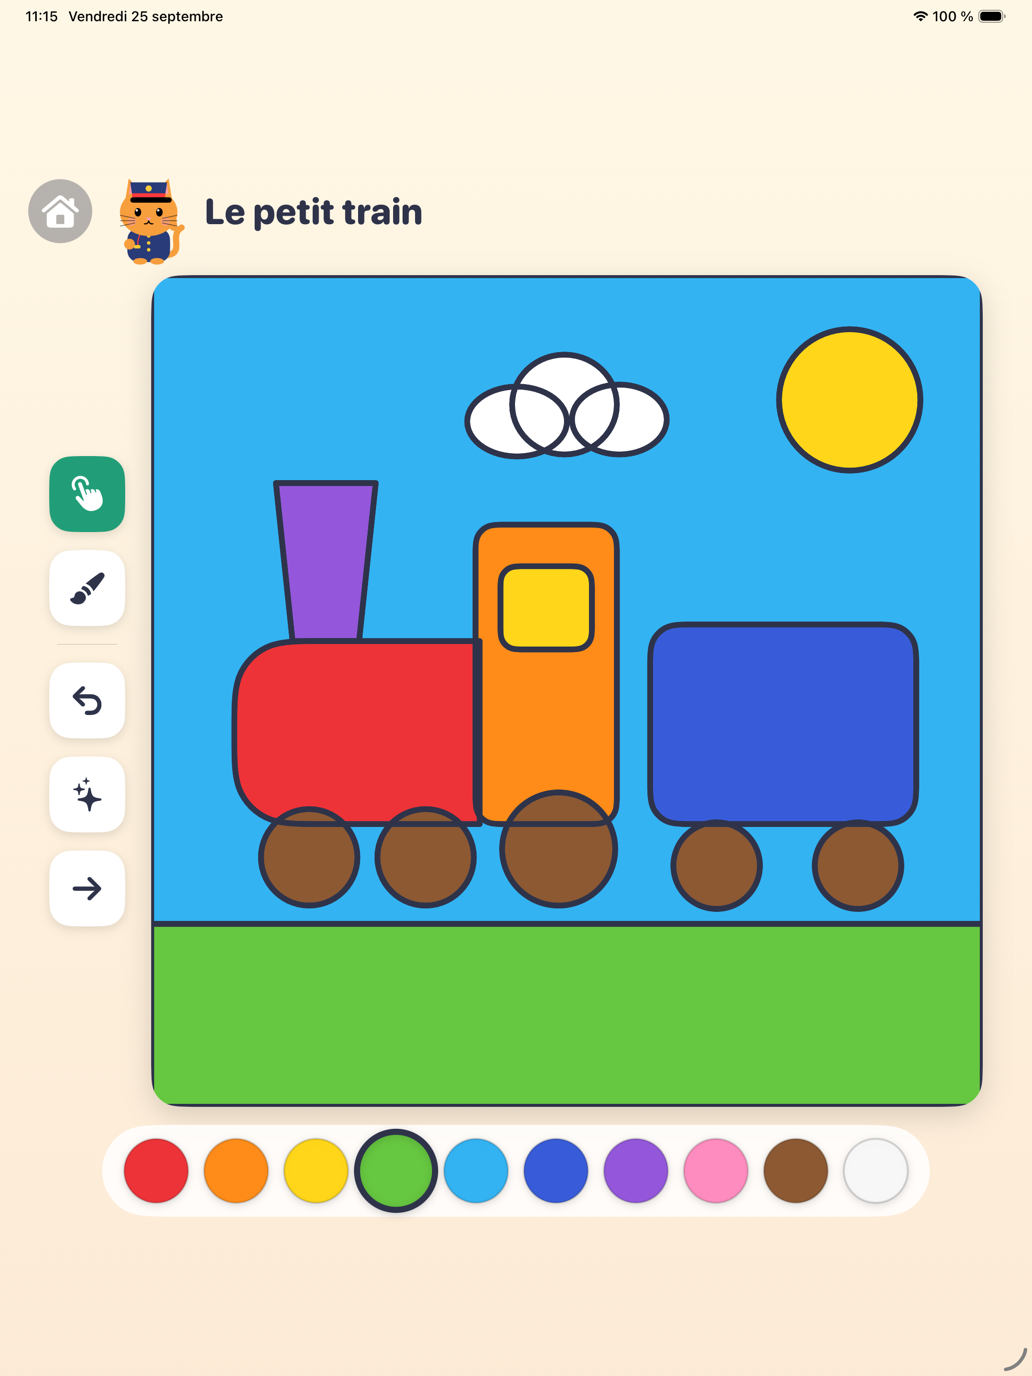
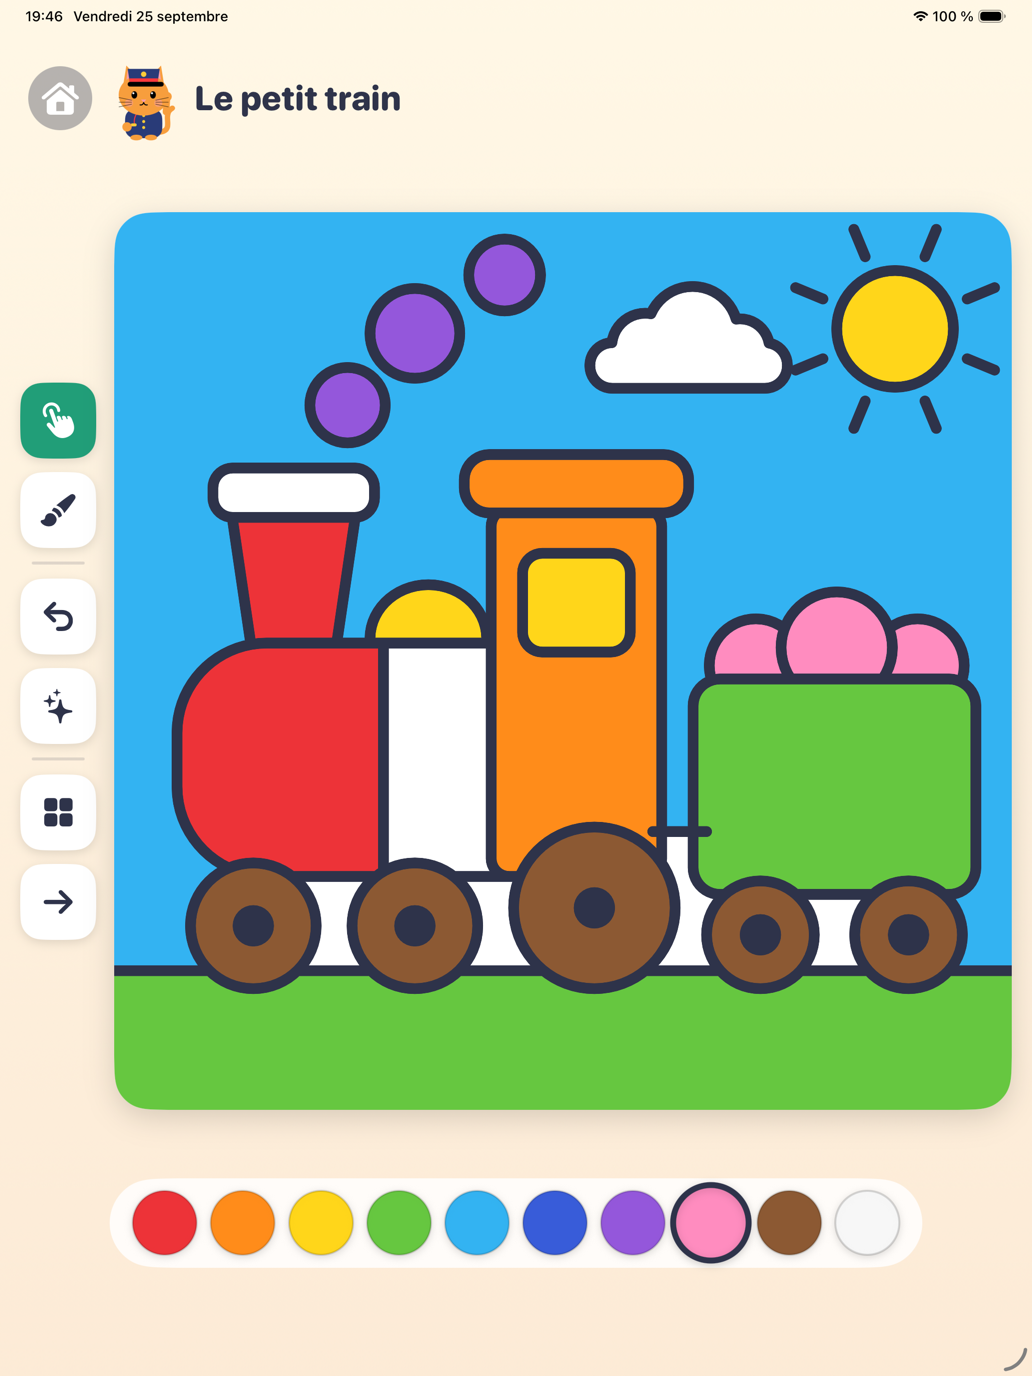
docs(eveil): l'app sur l'iPad réel et le second tour — captures, mode d'emploi, état
- README : l'app essayée sur l'iPad de l'utilisateur ; le second tour né de
  ses retours (micro « essai par un adulte » et test du micro, voyage de
  monde en monde, 45 mots dessinés, bestioles et bruitages calculés,
  coloriage à zones sur 15 pages) ; commandes pour un iPad réel (l'équipe de
  signature reste hors du dépôt public)
- captures refaites : la mouche et ses mouches, le fourgon accroché, le
  fourgon resté en gare dans la forêt, le coloriage à zones, l'espace des
  grands, le test du micro
- CLAUDE.md : état, pièges (boucles d'animation SwiftUI), reste à faire

diff --git a/eveil/README.md b/eveil/README.md
@@ -9,7 +9,7 @@ Tout est calculé **sur l'appareil**, sans modèle opaque, avec une règle d'or 
 | Dossier | Contenu | Statut |
 |---|---|---|
 | [`reference/wordend/`](reference/wordend/) | Détecteur de référence **Python stdlib** : DSP, détecteur, flux temps réel, pédagogie, lexiques, **banc de validation**, vecteurs de parité, démo | ✅ 69 tests verts |
-| [`ios/`](ios/) | **Swift** : paquet autonome [`WordEndCore`](ios/WordEndCore/) (portage ligne à ligne, Swift pur, testable seul) + paquet app `WordEndAudio` (AVFoundation) / `TrainPracticeUI` (SwiftUI/SwiftData) / `EveilDesign` (décor, mascotte) / `ColoringUI` (atelier) + **projet Xcode** [`App/EveilTrain.xcodeproj`](ios/App/) | ✅ **app jouable dans le simulateur** ([captures](#lapp-ipad--ébauche-jouable-25092026)) · cœur 19/19 · démo 52 cas |
+| [`ios/`](ios/) | **Swift** : paquet autonome [`WordEndCore`](ios/WordEndCore/) (portage ligne à ligne, Swift pur, testable seul) + paquet app `WordEndAudio` (AVFoundation) / `TrainPracticeUI` (SwiftUI/SwiftData) / `EveilDesign` (mondes, dessins des mots, bestioles, mascotte) / `EveilSounds` (bruitages calculés) / `ColoringUI` (atelier) + **projet Xcode** [`App/EveilTrain.xcodeproj`](ios/App/) | ✅ **app jouable, installée sur un iPad réel** ([captures](#lapp-ipad--ébauche-jouable-essayée-sur-un-vrai-ipad-25092026)) · cœur 19/19 · app 98 tests |
 | [`lexique/`](lexique/) | Mots cibles **FR** et **EN** conçus séparément (propositions à valider par un panel) | 🟡 à valider |
 | [`outils/`](outils/) | Garde-fou « rien ne quitte l'iPad » (analyse statique du code Swift) | ✅ 7 tests, 0 violation |
 | [`librarybrain/`](librarybrain/) | Relais vers LibraryBrain : sources en accès libre, veille arXiv, questions à poser, [protocole de comparaison](librarybrain/COMPARAISON.md) avec la passe cloud, [`interroger.py`](librarybrain/interroger.py) (les 33 questions, scriptées), [`mesurer.py`](librarybrain/mesurer.py) — comparaison faite : [rapport](../docs/EVEIL-SOURCES-LIBRARYBRAIN.md) | ✅ 20 tests |
@@ -50,35 +50,78 @@ Flux temps réel — « minouche », blocs de 10 ms :
 > d'enfants. Celle-ci se mesure avec le banc, dans le protocole de validation
 > ([docs/EVEIL.md §8](../docs/EVEIL.md#8-validation-par-les-pairs--le-protocole)).
 
-## L'app iPad — ébauche jouable (25/09/2026)
+## L'app iPad — ébauche jouable, essayée sur un vrai iPad (25/09/2026)
 
-| Accueil | Le fourgon s'accroche | Le fourgon reste en gare | Atelier de coloriage |
+| Accueil | « mouche » : les mouches volent | Mot entier : le fourgon s'accroche | Sans la fin : resté en gare |
 |---|---|---|---|
-| <img src="../docs/ui/eveil-app/1-accueil.png" width="200" alt="Accueil : le chat chef de gare propose deux jeux"> | <img src="../docs/ui/eveil-app/2-fourgon-accroche.png" width="200" alt="Mot entier : le wagon s'allume, le fourgon s'accroche"> | <img src="../docs/ui/eveil-app/3-fourgon-en-gare.png" width="200" alt="Sans la fin : le fourgon reste en gare, le chat le montre"> | <img src="../docs/ui/eveil-app/4-coloriage.png" width="200" alt="Atelier : page du petit train coloriée"> |
+| <img src="../docs/ui/eveil-app/1-accueil.png" width="200" alt="Accueil : le chat chef de gare propose deux jeux"> | <img src="../docs/ui/eveil-app/2-mouche-bestioles.png" width="200" alt="Le mot mouche dans la campagne : des mouches aux grands yeux volent derrière le mot"> | <img src="../docs/ui/eveil-app/2b-fourgon-accroche.png" width="200" alt="Mot entier : le wagon s'allume, le fourgon s'accroche en lâchant sa vapeur"> | <img src="../docs/ui/eveil-app/3-fourgon-en-gare.png" width="200" alt="Dans la forêt, sans la fin : le fourgon reste en gare, le chat le montre"> |
 
-- **Accueil** : le chat chef de gare (mascotte **provisoire**) propose deux jeux, en grandes cartes.
-- **Le petit train des mots** : plein écran ; le train entre en gare à chaque mot ; un wagon par
-  syllabe orale s'allume pendant que l'enfant parle ; le fourgon de la consonne finale s'accroche
-  (vapeur « chhh ») ou reste en gare, sur son quai ; le chat écoute, fait la fête ou montre
-  gentiment le fourgon ; un seul gros bouton « À toi ! ». Aucun message négatif.
+| Atelier de coloriage | Espace des grands | Tester le micro |
+|---|---|---|
+| <img src="../docs/ui/eveil-app/4-coloriage.png" width="200" alt="Page du petit train coloriée zone par zone, traits nets"> | <img src="../docs/ui/eveil-app/5-espace-des-grands.png" width="200" alt="Espace des grands : micro, essai par un adulte, mots du train"> | <img src="../docs/ui/eveil-app/6-tester-le-micro.png" width="200" alt="Tester le micro : accès, mot à dire, écouter, vumètre, petit train"> |
+
+Premier tour dans le simulateur le matin, puis **sur l'iPad de l'utilisateur** (iPad Pro 11" M1,
+iPadOS 27) l'après-midi. Ses retours ont fait le second tour :
+
+- **Le petit train des mots** : plein écran ; un wagon par syllabe orale s'allume pendant que
+  l'enfant parle ; le fourgon de la consonne finale s'accroche (« chhh » la vapeur, « sss » le
+  serpent) ou reste en gare, sur son quai, et le chat le montre gentiment. Aucun message négatif.
+  - **Un mot bien dit, on enchaîne** : le train siffle, quitte la gare et entre dans **un autre
+    monde** avec le mot suivant — campagne, forêt, montagne, banquise, mer, désert, ville, espace,
+    dans cet ordre (un voyage, jamais un tirage au sort). La ligne du voyage, en haut, montre les
+    six gares de la séance. Après trois essais, on félicite l'effort et le train repart aussi.
+  - **Des images qui vivent** : chaque mot a son dessin ; le toucher lui fait faire son bruit et
+    une petite action (la cloche se balance, la vache meugle). Derrière le mot volent de petites
+    bêtes : pour « mouche », des mouches — on en attrape une, elle fait « bzzz ».
+  - **Tour de parole strict** : tout se tait pendant que le train dit le mot et pendant l'écoute ;
+    les bestioles ralentissent et, touchées, frétillent sans bruit.
+  - **Plus de mots** : 28 en français, 17 en anglais (propositions à valider, cf.
+    [`lexique/`](lexique/)), tous niveaux mêlés ; chaque séance reprend où l'autre s'est arrêtée.
+- **Un micro « plus réceptif »** : le détecteur écarte EXPRÈS les voix graves d'adulte (hauteur
+  médiane < 165 Hz ⇒ « incertain »), pour ne pas prendre le modèle d'un parent pour la réponse de
+  l'enfant — un adulte qui essaie n'est donc jamais entendu. L'espace des grands propose
+  **« Essai par un adulte »** (ne lève que cette garde ; à couper avant de laisser jouer l'enfant)
+  et **« Tester le micro »** (accès au micro, vumètre, petit train, explication en clair de ce qui
+  a été entendu). L'enfant a dix secondes pour commencer à parler (six dans la référence) ; des
+  barres dansent avec sa voix pendant l'écoute. Les valeurs du détecteur, partagées avec la
+  référence Python et les vecteurs de parité, ne changent pas.
+- **Bruitages** ([`EveilSounds`](ios/Sources/EveilSounds/)) : 53 sons **calculés sur l'appareil**
+  (aucun fichier son, rien d'enregistré), même niveau perçu, jamais pendant l'écoute. Provisoires :
+  jugés à la mesure, à l'oreille sur l'iPad ensuite.
+- **Atelier de coloriage** (app 2, « mode écran ») : 15 pages au trait. **Chaque zone fermée par
+  des traits se colorie à part**, comme sur papier (carte des zones 1024², calculée à l'ouverture) ;
+  les couleurs passent sous les traits, qui restent nets. Toucher = remplir ; le pinceau reste dans
+  la zone où il a commencé (pochoir) ; annuler, tout effacer, choisir un dessin parmi les vignettes.
+  Rien n'est enregistré ni envoyé.
 - **Mode démo** (espace des grands › Présentation, ou argument de lancement `-eveil.demoMode 1`) :
   micro fermé ; le présentateur fait « entendre » au train un mot entier, un mot sans la fin ou une
   syllabe en moins — une pseudo-parole de `Synth` qui passe par le **vrai** détecteur — puis
-  « Mot suivant ». Rien n'est écrit dans le journal local. `swift test` (dans `ios/`) vérifie que
-  chaque bouton produit le verdict annoncé, pour tous les mots FR et EN (52 cas).
-- **Atelier de coloriage** (app 2, « mode écran ») : trois pages (le petit train, le chat, la
-  maison) ; toucher une forme la remplit, le pinceau ne déborde jamais (pochoir) ; dix grosses
-  couleurs ; annuler, tout effacer, page suivante. Rien n'est enregistré ni envoyé.
+  « Mot suivant ». Rien n'est écrit dans le journal local.
+- Tous les mouvements (train, vapeur, chat, bestioles, mondes) sont calculés à partir de l'heure :
+  les boucles d'animation SwiftUI faisaient clignoter ou trembler le train. « Réduire les
+  animations » fige tout.
 
 ```bash
-open eveil/ios/App/EveilTrain.xcodeproj          # schéma EveilTrain, un iPad du simulateur, ▶
-cd eveil/ios && swift test                        # le mode démo montre ce qu'il annonce
+open eveil/ios/App/EveilTrain.xcodeproj           # schéma EveilTrain, un iPad du simulateur, ▶
+cd eveil/ios && swift test                         # 98 tests : démo, écoute, sons, dessins, coloriage
+```
+
+Sur un **iPad réel** (mode développeur activé sur la tablette, équipe de signature Apple
+Developer ; l'équipe ne va pas dans le dépôt public) :
+
+```bash
+cd eveil/ios && xcodebuild -project App/EveilTrain.xcodeproj -scheme EveilTrain \
+    -destination 'platform=iOS,id=<UDID>' -allowProvisioningUpdates \
+    -allowProvisioningDeviceRegistration DEVELOPMENT_TEAM=<ÉQUIPE> build
+xcrun devicectl device install app --device <UDID> <DerivedData>/Build/Products/Debug-iphoneos/EveilTrain.app
+xcrun devicectl device process launch --device <UDID> fr.klodynlov.eveil.petittrain
 ```
 
 Provisoire, à trancher : nom affiché « Petit Train » et identifiant `fr.klodynlov.eveil.petittrain`,
-cible iPadOS 17 (celle du paquet), toutes orientations, mascotte, dessins vectoriels (en attendant
-un illustrateur), voix du mot = synthèse système (en attendant les enregistrements). Reste : l'iPad
-réel (signature, micro, Accès guidé), les illustrations, les voix, les sons, le panel.
+cible iPadOS 17 (celle du paquet), toutes orientations, mascotte (chat chef de gare), dessins
+vectoriels (en attendant un illustrateur), bruitages synthétisés (en attendant de vrais sons), voix
+du mot = synthèse système (en attendant les enregistrements). Reste : l'Accès guidé à vérifier sur
+l'iPad, les voix, le panel.
 
 ## Sur Mac — compilé et testé le 25/09/2026
 
@@ -113,10 +156,10 @@ cd eveil/ios && xcodebuild -scheme EveilTrain-Package \
 > **Reprendre en local** (compilation Swift + comparaison LibraryBrain) : prompt prêt à coller dans
 > [`REPRISE-LOCALE.md`](REPRISE-LOCALE.md).
 
-App iPad : le projet [`ios/App/EveilTrain.xcodeproj`](ios/App/) est prêt — paquets locaux `eveil/ios` et
+App iPad : le projet [`ios/App/EveilTrain.xcodeproj`](ios/App/) — paquets locaux `eveil/ios` et
 `eveil/ios/WordEndCore`, coquille et accueil ([`App/`](ios/App/)), lexiques FR/EN, `PrivacyInfo.xcprivacy`,
-clés micro dans les réglages de la cible. Sur un iPad réel, il ne manque que l'équipe de signature (à
-choisir dans Xcode). Aucun entitlement iCloud, aucun SDK tiers.
+clés micro dans les réglages de la cible — tourne sur un iPad réel depuis le 25/09/2026 (signature
+automatique, profil d'équipe ; commandes plus haut). Aucun entitlement iCloud, aucun SDK tiers.
 
 ---
 

diff --git a/CLAUDE.md b/CLAUDE.md
@@ -198,20 +198,41 @@ modules : aucun import croisé ; même discipline (référence stdlib testée, s
   les golden) · `cd eveil/ios && xcodebuild -scheme EveilTrain-Package -destination 'generic/platform=iOS
   Simulator' build` → **BUILD SUCCEEDED**, aussi appareil iOS, macOS et mode Swift 6, **0 avertissement**
   (4 avertissements de concurrence de `ListeningController` corrigés) · coquille `App/` type-checkée
-  seule ; **projet Xcode + iPad réel : avec l'utilisateur, pas à pas** (signature, micro).
+  seule ; **projet Xcode + iPad réel faits avec l'utilisateur, pas à pas** (25/09/2026 : signature, micro).
   Dépréciation `installTap` → `installAudioTap(…)` confirmée dans le SDK iOS 27 (bascule liée au choix
   iPadOS 17/26).
-- 🎨 **App iPad — ébauche JOUABLE dans le simulateur (25/09/2026)**, construite avec l'utilisateur :
-  projet `eveil/ios/App/EveilTrain.xcodeproj` (cible iPad, paquets locaux, lexiques, confidentialité) ·
-  **accueil** (2 jeux en grandes cartes) · **petit train** plein écran (train qui entre en gare, wagons
-  qui s'allument, fourgon qui s'accroche ou reste en gare sur son quai, gros bouton « À toi ! ») ·
-  **mode démo** (espace des grands ou `-eveil.demoMode 1` : pseudo-parole `Synth` dans le VRAI détecteur,
-  le présentateur avance ; rien dans le journal) · **atelier de coloriage** `ColoringUI` (3 pages,
-  toucher = remplir, pinceau pochoir, 10 couleurs). Nouveaux modules `EveilDesign` (décor, gros boutons,
-  mascotte) et `ColoringUI` ; `cd eveil/ios && swift test` → 2 tests, **52 cas** mot × scénario de démo.
-  Captures : `docs/ui/eveil-app/*.png`. **Mascotte provisoire choisie par l'utilisateur : un chat chef
-  de gare** (dessin vectoriel, le panel pourra en changer). Provisoire aussi : nom affiché « Petit
-  Train », identifiant `fr.klodynlov.eveil.petittrain`, cible iPadOS 17, toutes orientations.
+- 🎨 **App iPad — ébauche JOUABLE, installée sur l'iPad réel de l'utilisateur (25/09/2026)**, construite
+  avec lui : projet `eveil/ios/App/EveilTrain.xcodeproj` (cible iPad, paquets locaux, lexiques,
+  confidentialité) · **accueil** · **petit train** plein écran · **mode démo** (`-eveil.demoMode 1` :
+  pseudo-parole `Synth` dans le VRAI détecteur, rien dans le journal) · **atelier de coloriage**.
+  **iPad réel** (iPad Pro 11" M1, iPadOS 27) : mode développeur activé par l'utilisateur, signature
+  automatique avec son accord (profil d'équipe, **l'ID d'équipe ne va pas dans le dépôt public**),
+  install/lancement par `xcrun devicectl` (commandes dans `eveil/README.md`).
+  **Second tour, sur ses retours** (« plus de mots », « micro plus réceptif », « un mot bien dit on
+  enchaîne », « un autre monde à chaque mot », « la mouche : on l'attrape, elle fait bzzz »,
+  « coloriage : ne pas fusionner les formes ») :
+  - micro : le détecteur écarte EXPRÈS les voix graves d'adulte (F0 < 165 Hz ⇒ incertain) → réglage
+    **« Essai par un adulte »** (ne lève que cette garde) + **« Tester le micro »** (espace des grands :
+    accès, vumètre, petit train, `ListeningDiagnosis` en clair) ; 10 s pour commencer à parler (6 dans la
+    référence) ; `DetectorConfig()` et les vecteurs de parité **inchangés** ;
+  - voyage : mot bien dit → fourgon accroché (« chhh »/« sss »), sifflet, départ vers le **monde
+    suivant** (8 mondes, ordre fixe, `EveilDesign/World*`) ; ligne du voyage (6 gares/séance) ;
+  - 45 mots (28 FR + 17 EN, propositions), tous niveaux mêlés (`WordDeck`, curseur mémorisé) ;
+    un **dessin vivant par mot** (`WordArt*`, action au toucher) + **bestioles** qui volent derrière
+    (`CritterLayer` ; on les attrape, elles font leur bruit) ; **53 bruitages calculés** (`EveilSounds`,
+    aucun fichier son, sonie égalisée) ; **tout se tait pendant le mot modèle et l'écoute** ;
+  - coloriage : **15 pages au trait, chaque zone fermée par des traits = une zone** (carte des zones
+    1024² : remplir + pinceau-pochoir par zone, traits nets par-dessus, choix des dessins) ;
+  - piège SwiftUI vu deux fois : une boucle `repeatForever` lancée dans `onAppear` « capture » la
+    transition ou l'animation d'un parent (train qui clignote, qui tremble) → **tout mouvement est piloté
+    par l'horloge** (`TimelineView`), train compris.
+  Réalisé en partie par 4 sous-agents en worktrees (mondes/bestioles, dessins des mots, sons,
+  coloriage), relus sur planches PNG (`EVEIL_RENDER_DIR`, `EVEIL_SOUNDS_DIR`) puis fusionnés.
+  `cd eveil/ios && swift test` → **98 tests** (démo, écoute, sons, rendus, coloriage). Captures :
+  `docs/ui/eveil-app/*.png`. **Mascotte provisoire choisie par l'utilisateur : un chat chef de gare.**
+  Provisoire aussi : nom « Petit Train », identifiant `fr.klodynlov.eveil.petittrain`, iPadOS 17,
+  dessins et bruitages (en attendant illustrateur et vrais sons). `docs/EVEIL.md` § 6.3 décrit encore
+  le pochoir PencilKit prévu : à mettre à jour **avec l'accord de l'utilisateur**.
 - 🛡 `eveil/outils/verifier_confidentialite.py` — « rien ne quitte l'iPad » vérifié statiquement
   (réseau, SDK tiers, CloudKit, enregistrement audio, ASR serveur interdits) → 0 violation, 7 tests ;
   ignore les produits de compilation (`.build/`, `.swiftpm/`, `DerivedData/`).
@@ -246,14 +267,12 @@ modules : aucun import croisé ; même discipline (référence stdlib testée, s
   (1) ✅ `swift test` du cœur + build iOS du paquet app, (2) ✅ comparaison **LibraryBrain ↔ passe
   cloud** (rapport `docs/EVEIL-SOURCES-LIBRARYBRAIN.md`) — les deux faits le 25/09/2026.
 
-**Reste à faire :** app sur iPad réel (signature, micro, Accès guidé ; avec l'utilisateur) · illustrations,
-voix enregistrées et sons à la place des placeholders · acquérir les sources du rapport (§ 7) puis
-rejouer (P2) · alors
-seulement `--avec-notes` + veille arXiv · panel Delphi (mots, messages, nom,
-mascotte, voix) · protocole V1 (Jardé/CPP/CNIL à qualifier, corpus, calibration via le banc) ·
-App 2 : ébauche « mode écran » faite (`ColoringUI`, pochoir SwiftUI) ; reste le mode **papier**
-(VisionKit `VNDocumentCameraViewController` + SpriteKit) · décisions ouvertes : nom, iPadOS 17 vs 26, mode par défaut
-avant validation (écoute auto vs juge adulte).
+**Reste à faire :** iPad réel : Accès guidé à vérifier (signature et micro faits le 25/09/2026) · voix
+enregistrées, illustrations et sons définitifs à la place des provisoires · acquérir les sources du rapport
+(§ 7) puis rejouer (P2) · alors seulement `--avec-notes` + veille arXiv · panel Delphi (mots, messages,
+nom, mascotte, voix) · protocole V1 (Jardé/CPP/CNIL à qualifier, corpus, calibration via le banc) ·
+App 2 : mode **papier** (VisionKit `VNDocumentCameraViewController` + SpriteKit) · décisions ouvertes :
+nom, iPadOS 17 vs 26, mode par défaut avant validation (écoute auto vs juge adulte).
 
 ### Autres projets (mentionnés au README, hors de ce dépôt)
 Klody Code AI (agent de code local, projet phare) · klody-ui · LibraryBrain (RAG local) ·
@@ -261,8 +280,10 @@ VocalBrain (voix) · Dream × World (mondes IA persistants).
 
 ---
 
-_Dernière mise à jour mémoire : Suite Éveil — **ébauche jouable de l'app iPad** (25/09/2026 : accueil,
-petit train, mode démo, atelier de coloriage ; mascotte provisoire chat chef de gare). Avant :
+_Dernière mise à jour mémoire : Suite Éveil — **app sur l'iPad réel + second tour** (25/09/2026 : micro
+« essai par un adulte » et test du micro, voyage de monde en monde, 45 mots dessinés, bestioles et
+bruitages calculés, coloriage à zones sur 15 pages). Avant : **ébauche jouable** (accueil, petit train,
+mode démo, coloriage ; mascotte provisoire chat chef de gare). Avant :
 **comparaison LibraryBrain ↔ passe cloud faite**
 (25/09/2026 : couverture 11/33 → 15/33, aucune contradiction, A22 fermé, rapport
 `docs/EVEIL-SOURCES-LIBRARYBRAIN.md`) et **Swift compilé et testé sur le Mac** (cœur 19/19, paquet
